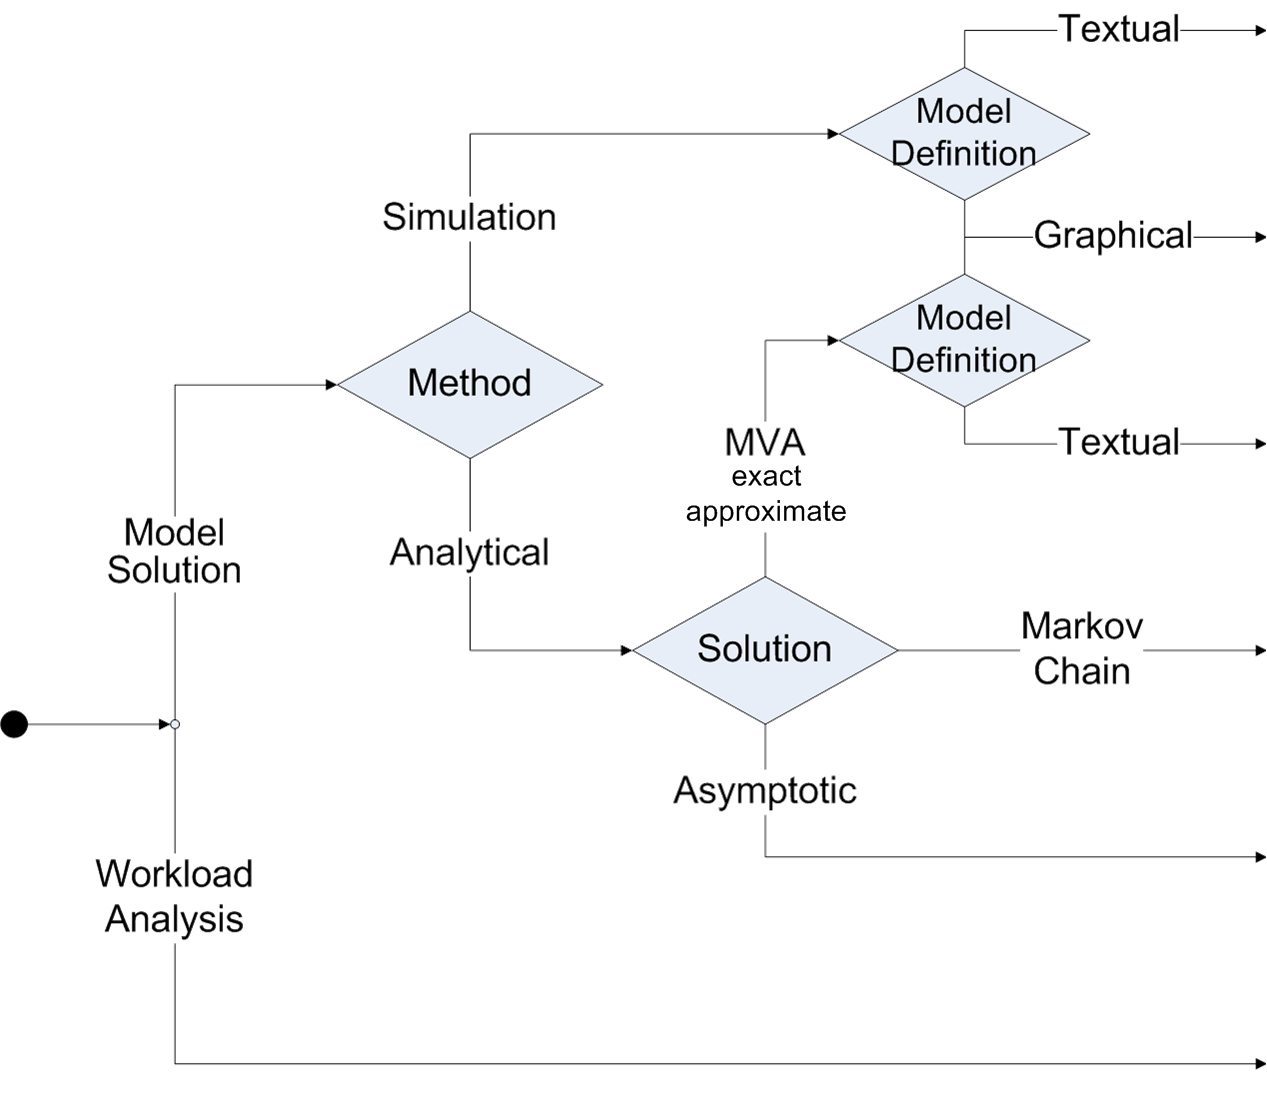
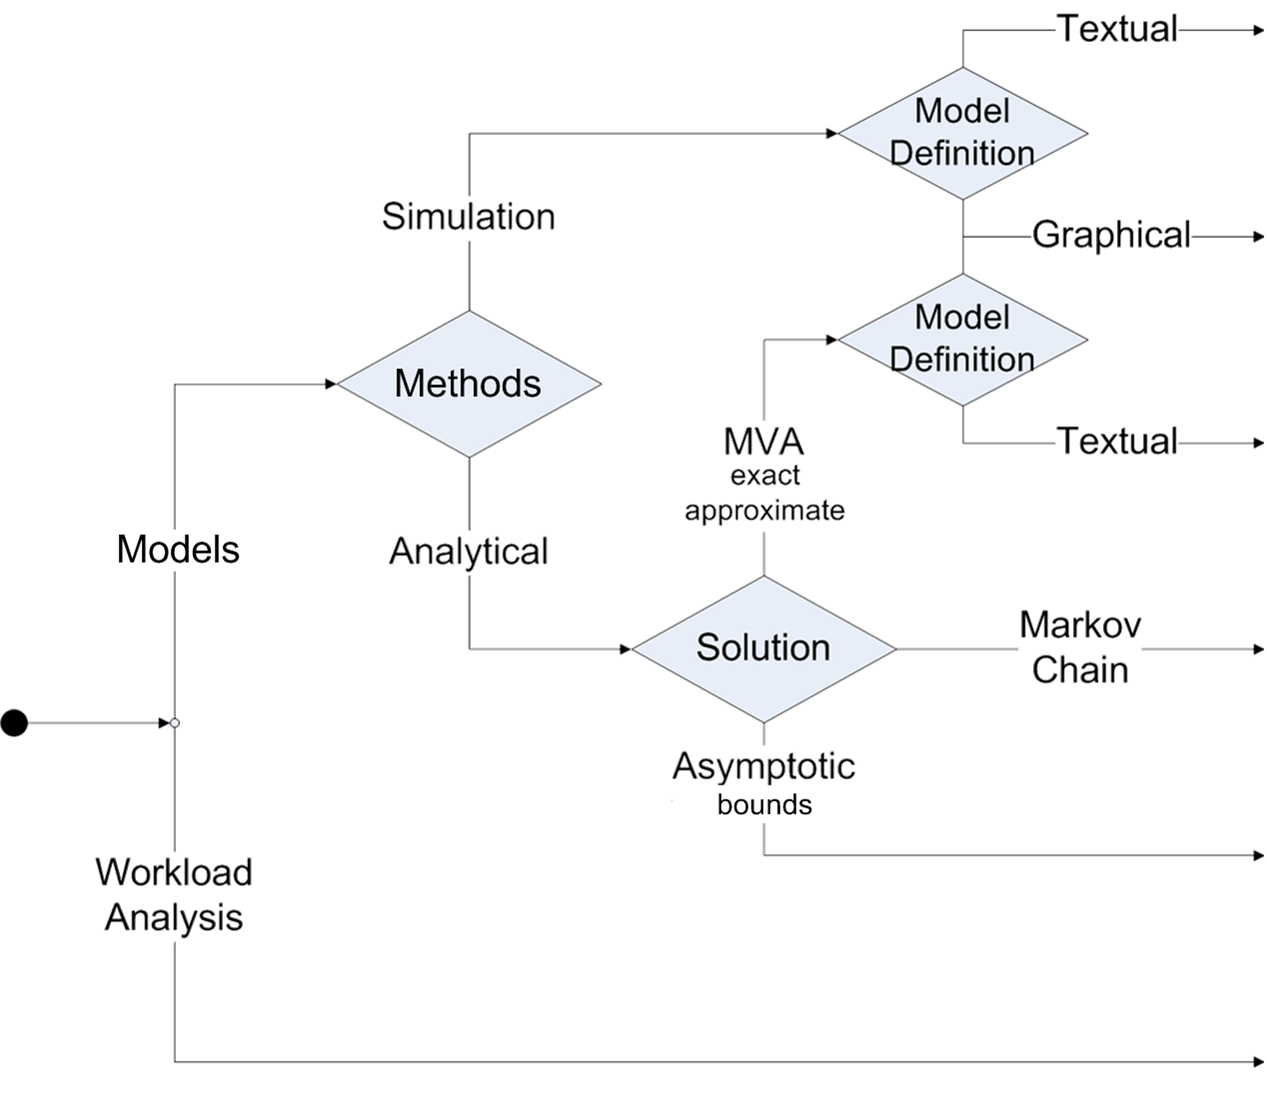
Fixed some labels.

diff --git a/src/jmt/gui/exact/ExactConstants.java b/src/jmt/gui/exact/ExactConstants.java
@@ -98,8 +98,10 @@ public interface ExactConstants {
 	public static final String DESCRIPTION_THROUGHPUTS = "<html><body align=\"left\"><font size=\"4\"><b>Throughput</b>"
 			+ "</font><font size=\"3\"><br>Throughput for each class at each station.</body></html>";
 	public static final String DESCRIPTION_RESPONSETIMES = "<html><body align=\"left\"><font size=\"4\"><b>Residence Times</b>"
-			+ "</font><font size=\"3\"><br>Total time spent by each customer class summed across all visits to a station. Note that the aggregate values are weighted by relative per-class throughput."
-			+ " The global aggregate is the system response time.</body></html>";
+			+ "</font><font size=\"3\"><br>Total time spent by each customer class summed across all visits to a station."
+			+ " The aggregate values of each class are the class Response Time (sum of the residence times of the class)."
+			+ " The global aggregate is the \"System Response Time\" and is obtained weighting the aggregated values by the relative per-class throughput."
+			+ "</body></html>";
 	public static final String DESCRIPTION_UTILIZATIONS = "<html><body align=\"left\"><font size=\"4\"><b>Utilization</b>"
 			+ "</font><font size=\"3\"><br>Utilization of a customer class at the selected station. "
 			+ "The utilization of a delay station is the average number of customers in the station (it may be greater than 1)</body></html>";

diff --git a/src/jmt/gui/common/panels/MeasurePanel.java b/src/jmt/gui/common/panels/MeasurePanel.java
@@ -102,7 +102,7 @@ public class MeasurePanel extends WizardPanel implements CommonConstants {
 	protected MeasureTable measureTable;
 
 	//types of measures selectable
-	protected static final String[] measureTypes = new String[] { "---select an index---", SimulationDefinition.MEASURE_QL, SimulationDefinition.MEASURE_QT,
+	protected static final String[] measureTypes = new String[] { "---Select an index---", SimulationDefinition.MEASURE_QL, SimulationDefinition.MEASURE_QT,
 			SimulationDefinition.MEASURE_RD, SimulationDefinition.MEASURE_RP, SimulationDefinition.MEASURE_U, SimulationDefinition.MEASURE_X,
 			SimulationDefinition.MEASURE_DR, SimulationDefinition.MEASURE_S_X, SimulationDefinition.MEASURE_S_RP, SimulationDefinition.MEASURE_S_DR,
 			SimulationDefinition.MEASURE_S_CN,

diff --git a/src/jmt/gui/jmodel/controller/Mediator.java b/src/jmt/gui/jmodel/controller/Mediator.java
@@ -2217,7 +2217,7 @@ public class Mediator implements GuiInterface {
 					parent = resultsWindow;
 				}
 
-				int resultValue = JOptionPane.showConfirmDialog(parent, "This operation will overwrite old simulation results." + "Continue anyway?",
+				int resultValue = JOptionPane.showConfirmDialog(parent, "This operation will overwrite old simulation results. Continue anyway?",
 						"JMT - Warning", JOptionPane.YES_NO_OPTION, JOptionPane.WARNING_MESSAGE);
 				if (resultValue == JOptionPane.NO_OPTION) {
 					return;
